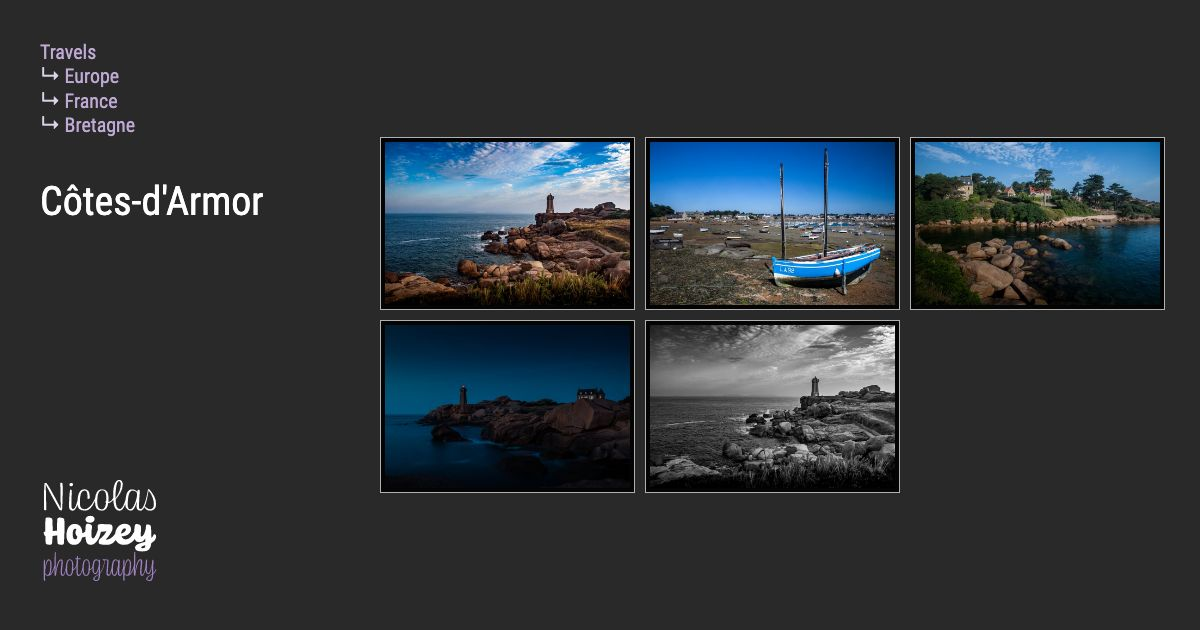
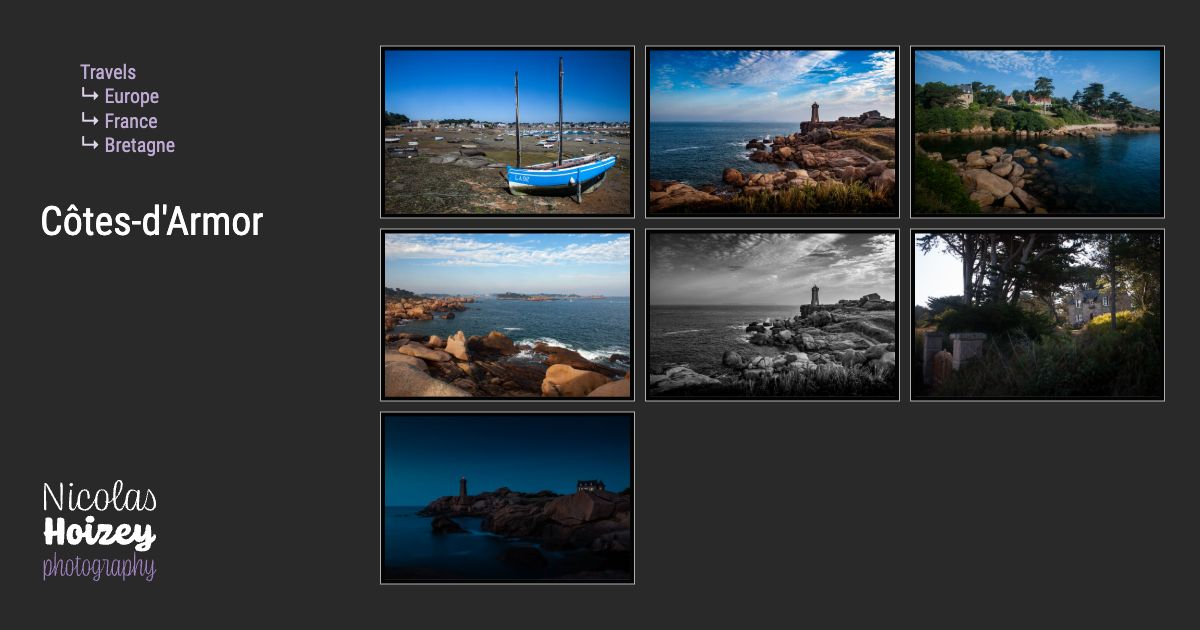
New photos

diff --git a/src/pages/galleries/landscapes/seascape/view-of-costaeres-island-from-mean-ruz-lighthouse.md b/src/pages/galleries/landscapes/seascape/view-of-costaeres-island-from-mean-ruz-lighthouse.md
@@ -1,0 +1,3 @@
+---
+date: 2025-06-24 10:48:17 +02:00
+---

diff --git a/src/pages/galleries/travels/europe/france/bretagne/cotes-d-armor/a-beautiful-property-along-the-sentier-des-douaniers-in-brittany.md b/src/pages/galleries/travels/europe/france/bretagne/cotes-d-armor/a-beautiful-property-along-the-sentier-des-douaniers-in-brittany.md
@@ -1,0 +1,3 @@
+---
+date: 2025-06-24 10:48:25 +02:00
+---

diff --git a/src/pages/galleries/travels/europe/france/bretagne/cotes-d-armor/view-of-costaeres-island-from-mean-ruz-lighthouse.md b/src/pages/galleries/travels/europe/france/bretagne/cotes-d-armor/view-of-costaeres-island-from-mean-ruz-lighthouse.md
@@ -1,0 +1,3 @@
+---
+date: 2025-06-24 10:48:27 +02:00
+---
